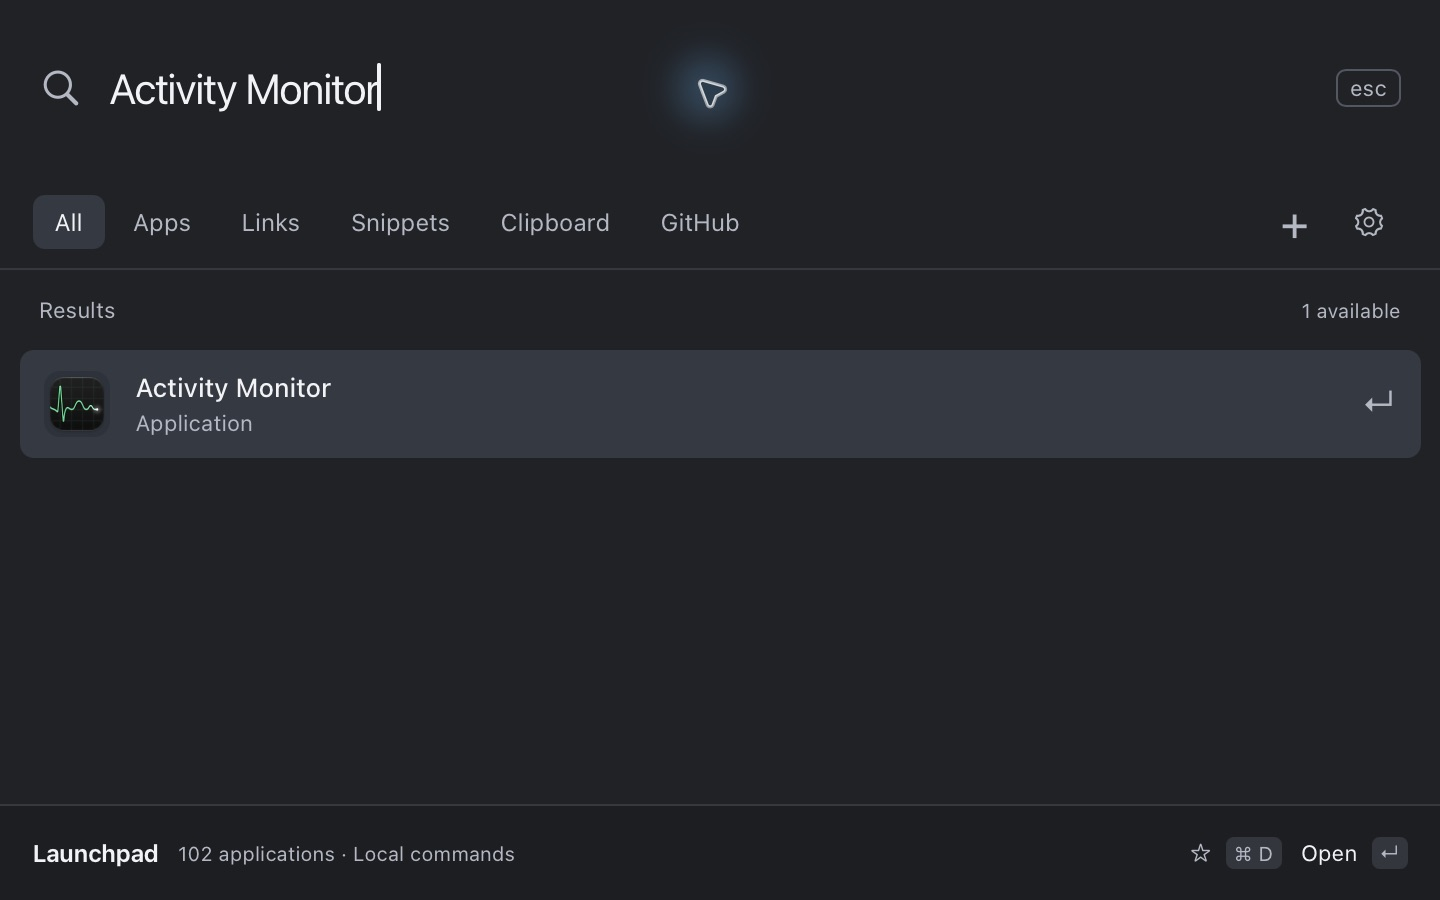
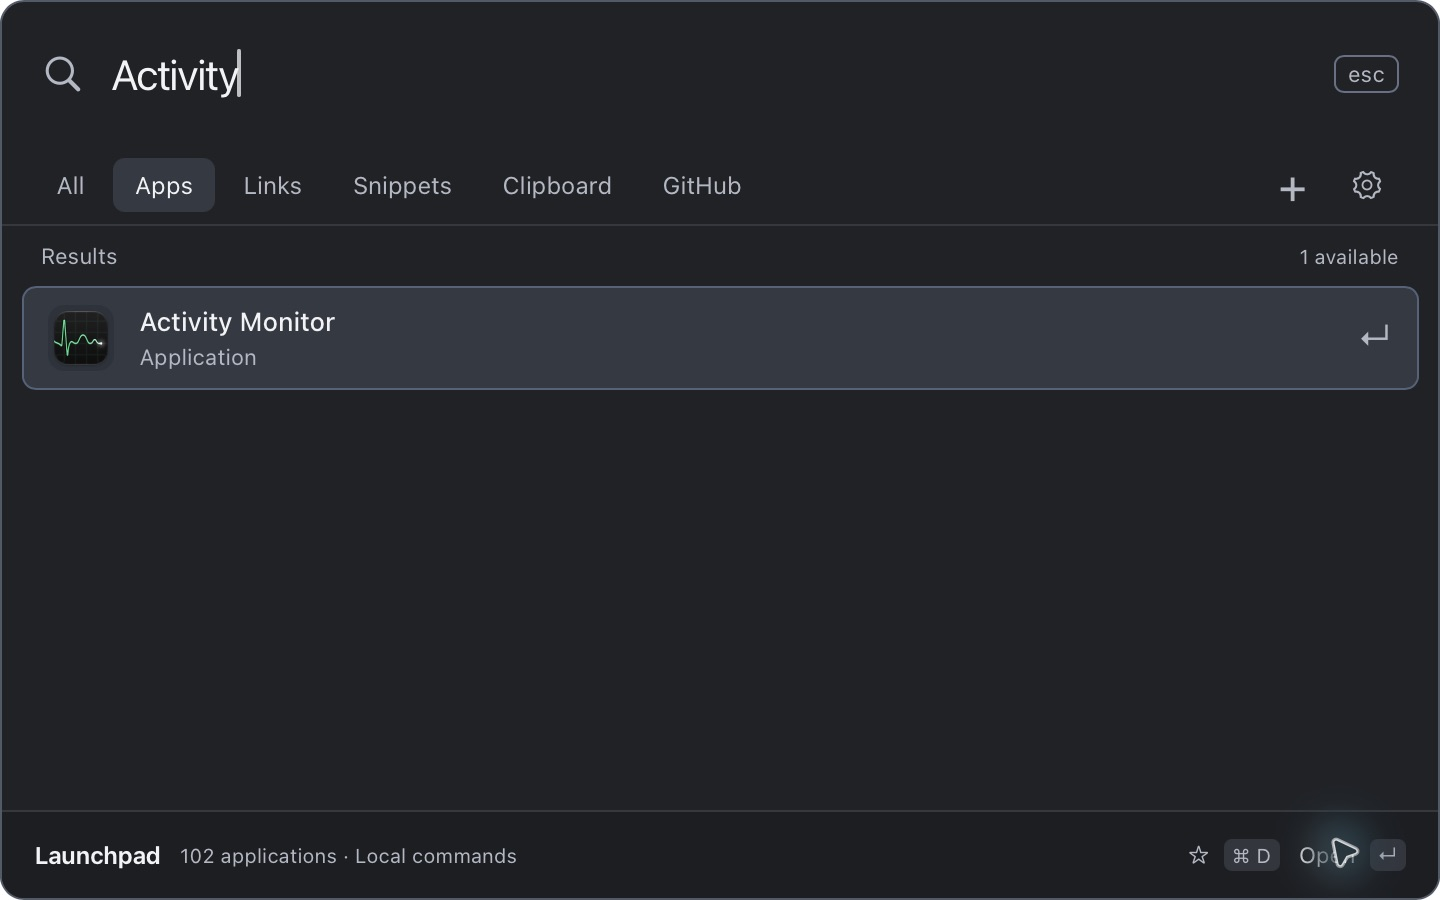
docs: qualify Store screenshots in light and dark modes

diff --git a/app-store.config.ts b/app-store.config.ts
@@ -2,7 +2,7 @@ import type { AppStoreMetadata } from 'ts-pantry'
 
 export default {
   locale: 'en-US',
-  subtitle: 'Your keyboard. A little faster.',
+  subtitle: 'Your keyboard. More useful.',
   privacyPolicyUrl: 'https://github.com/stacksjs/launchpad/blob/main/PRIVACY.md',
   description: `Bring everyday actions to your keyboard.
 
@@ -33,6 +33,6 @@ If another app owns Command + Space, release that shortcut before using Launchpa
   ageRating: { userGeneratedContent: true },
   releaseType: 'AFTER_APPROVAL',
   usesNonExemptEncryption: false,
-  screenshots: [{ platform: 'MAC_APP_STORE', files: ['assets/screenshots/applications.jpg', 'assets/screenshots/calculator.jpg', 'assets/screenshots/github.jpg'] }],
+  screenshots: [{ platform: 'MAC_APP_STORE', files: ['assets/screenshots/applications.jpg', 'assets/screenshots/applications-light.jpg', 'assets/screenshots/calculator.jpg', 'assets/screenshots/github.jpg'] }],
   submitForReview: false,
 } satisfies Omit<AppStoreMetadata, 'reviewContact'>
